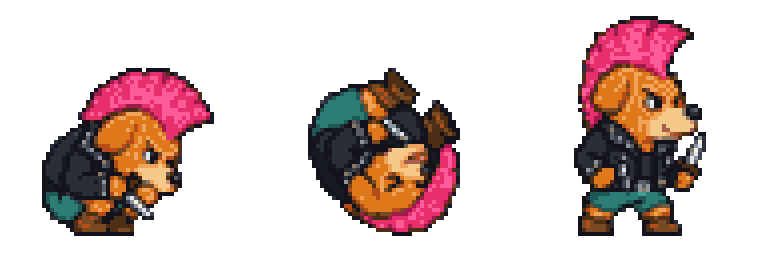
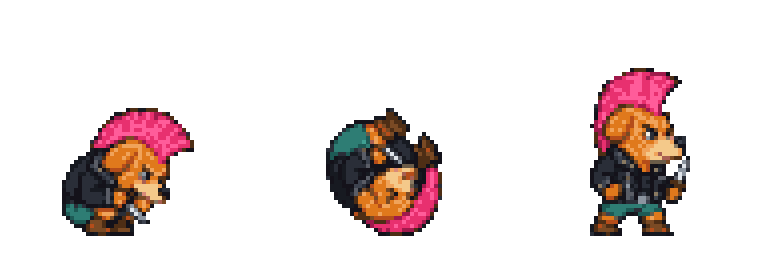
Roll/dodge gets full front/side/back coverage, and fix its real scale bug
Two things found investigating "the roll looks huge" and "does it roll
forward/backward too":

1. build_sheet.py scales every row from ONE reference frame (frame 0 by
   default) and applies that scale to the whole row. That default is
   right for walk/attack, whose frame 0 sits close to standing height —
   it was WRONG for roll, whose frame 0 is a deliberately crouched tuck.
   Scaling the whole row to make the tuck 168px tall inflated the other
   two frames past her real size: the recover frame shipped at 220px,
   31% taller than every other sheet's 168px. Fixed two ways: build_sheet.py
   now accepts a per-row #F suffix (--row raw.png#2) to pick which frame
   is the height reference, and hero_roll_sheet.png is rebuilt with #2
   (recover, not tuck) as Dog Punk's reference frame.

2. Roll was side-view-only by design, reused mirrored for every
   direction including vertical dodges (she visibly tumbled sideways
   while moving up or down). That was a deliberate, documented exception
   to CHARACTER_SHEETS.md's usual three-row standard, and the owner
   overruled it after the reuse turned out to be exactly what hid bug 1:
   nothing was ever checking the reused row against her real size. A
   game of this shape now gets full front/side/back coverage for every
   animation, roll included, same as walk and attack — not a per-
   animation judgement call. rollsheet_prompt.txt gains FRONT ROW and
   BACK ROW {VIEW} blocks (a forward/backward somersault toward/away
[…]

Changed region(s): [[0.75, 0.0625, 0.9375, 0.9375], [0.0312, 0.25, 0.2812, 0.9375], [0.375, 0.25, 0.625, 0.9375]]

diff --git a/games/dog-punk/sw.js b/games/dog-punk/sw.js
@@ -1,6 +1,6 @@
 importScripts("../../shared/sw-core.js");
 
-GCRegisterServiceWorker("dog-punk-v45", [
+GCRegisterServiceWorker("dog-punk-v46", [
   "./",
   "./index.html",
   "./style.css",

diff --git a/.github/art/build_sheet.py b/.github/art/build_sheet.py
@@ -416,10 +416,11 @@ def build_steps(neutral):
     return stepped(True), Image.fromarray(a), stepped(False)
 
 
-def build(rows, out_path, pal, body_heights, cols, mirror_rows=(), step_rows=()):
+def build(rows, out_path, pal, body_heights, cols, mirror_rows=(), step_rows=(), ref_frames=()):
     sheet = Image.new('RGBA', (CELL * cols, CELL * len(rows)), (0, 0, 0, 0))
     for ri, row in enumerate(rows):
         body_h = body_heights[ri] if isinstance(body_heights, list) else body_heights
+        ref_i = ref_frames[ri] if ri < len(ref_frames) else 0
         row = [trim(strip_baseline(trim(f))) for f in row][:cols]
         if not row:
             raise SystemExit('a row came back empty — check the raw image framing')
@@ -435,9 +436,18 @@ def build(rows, out_path, pal, body_heights, cols, mirror_rows=(), step_rows=())
         if ri in mirror_rows and len(row) >= 3:
             row[2] = mirror_legs(row[0])
             print(f'  row {ri}: built the second step by mirroring the first step\'s legs')
-        # ONE scale for the row, from its idle frame: the character must not
-        # change size between idle, walking and attacking.
-        scale = body_h / row[0].size[1]
+        # ONE scale for the row, from its REFERENCE frame (frame 0 unless a
+        # row overrides it with #F — see the --row help): the character must
+        # not change size between idle, walking and attacking. Frame 0 is the
+        # right default for walk/attack, where it sits close to standing
+        # height. It is the WRONG default for a row whose frame 0 is a
+        # deliberately non-standing pose — a dodge-roll's frame 0 is a
+        # crouched tuck, shorter than her real standing height, and scaling
+        # the whole row to make THAT frame 168px tall inflates every other
+        # frame in the row past her actual size. Caught for real on Dog
+        # Punk's roll sheet: the recover frame (meant to end back at normal
+        # height) measured 220px, 31% taller than every other sheet's 168px.
+        scale = body_h / row[ref_i].size[1]
         for ci, f in enumerate(row):
             s = pixelate(f, max(PIXEL, int(round(f.size[1] * scale))))
             if pal is not None:
@@ -453,8 +463,12 @@ def main():
     ap = argparse.ArgumentParser(description=__doc__, formatter_class=argparse.RawDescriptionHelpFormatter)
     ap.add_argument('--style', required=True, help='games/<id>/art-style.json (supplies lockedPalette)')
     ap.add_argument('--out', required=True, help='sheet to write, e.g. games/<id>/hero_sheet.png')
-    ap.add_argument('--row', action='append', required=True, metavar='FILE[:N]',
-                    help='raw image for one output row; :N picks a row within a multi-row raw')
+    ap.add_argument('--row', action='append', required=True, metavar='FILE[:N][@H][#F]',
+                    help='raw image for one output row; :N picks a row within a multi-row raw; '
+                         '#F picks which FRAME (0-based) in the cut row is the height reference '
+                         '(default 0) — override it when frame 0 is not a standing-height pose, '
+                         'e.g. a dodge-roll row whose frame 0 is a crouched tuck: --row '
+                         'roll.png#2 anchors the scale to frame 2 (recover) instead')
     ap.add_argument('--body-height', type=int, default=168,
                     help='height of the idle frame inside its cell (default 168; use less for smaller creatures)')
     ap.add_argument('--cols', type=int, default=3, help='frames per row (default 3: idle, walk, attack)')
@@ -476,17 +490,19 @@ def main():
         print(f'note: {args.style} has no lockedPalette — shipping the generated colours as-is. '
               'Add one so this game\'s art cannot drift between sheets.', file=sys.stderr)
 
-    rows, heights = [], []
+    rows, heights, ref_frames = [], [], []
     for spec in args.row:
+        spec, _, ref = spec.partition('#')
         spec, _, h = spec.partition('@')
         path, _, idx = spec.partition(':')
         img = key_background(path, tol=args.tol)
         rows.append(frames_by_blob(img, want=args.cols) if args.blobs
                     else frames_by_gutter(img, int(idx or 0)))
         heights.append(int(h) if h else args.body_height)
+        ref_frames.append(int(ref) if ref else 0)
     mirror_rows = {int(x) for x in args.mirror_step.split(',') if x.strip()}
     step_rows = {int(x) for x in args.build_steps.split(',') if x.strip()}
-    build(rows, args.out, pal, heights, args.cols, mirror_rows, step_rows)
+    build(rows, args.out, pal, heights, args.cols, mirror_rows, step_rows, ref_frames)
 
 
 if __name__ == '__main__':

diff --git a/.github/art/profiles.py b/.github/art/profiles.py
@@ -95,11 +95,13 @@ PROFILES = {
         "size": "1536x1024",
         "quality": "medium",
         "background": "opaque",
-        # SIDE VIEW ONLY, ever — see CHARACTER_SHEETS.md's "Roll / dodge"
-        # section. rollsheet_prompt.txt has no FRONT/BACK ROW block on
-        # purpose, so asking generate_row.py for --kind roll --view front
-        # fails loudly (fill() can't find the block) instead of quietly
-        # producing a row nothing will ever play.
+        # Full front/side/back coverage, same as walk and attack — see
+        # CHARACTER_SHEETS.md's "Roll / dodge" section. Used to be side-view-
+        # only with the side row reused (mirrored, and replayed for vertical
+        # dodges) for every direction; overruled after that reuse also
+        # papered over a real scale bug (the recover frame shipped 31%
+        # taller than every other sheet). rollsheet_prompt.txt now has all
+        # three {VIEW} blocks like the other two prompts.
         #
         # BLOBS, same reason as attack: a tucked, tumbling body reaches
         # further into the gap beside it than a standing one, so a gutter

diff --git a/.github/art/CHARACTER_SHEETS.md b/.github/art/CHARACTER_SHEETS.md
@@ -157,30 +157,46 @@ columns (a "neutral" that is really a third stride, or a standing frame drawn
 from a different angle than its own row) breaks the cycle in that direction
 only — the hardest kind of bug to spot, because the other directions look fine.
 
-**Roll / dodge — OPTIONAL, 3 frames, ONE ROW ONLY: `[tuck, mid-roll, recover]`**
+**Roll / dodge — OPTIONAL, 3 frames per direction: `[tuck, mid-roll, recover]`**
 
 | col | pose |
 |-----|------|
 | 0 | tuck — crouching in, ball up, about to go over |
-| 1 | **mid-roll** — curled sideways mid-tumble, the silhouette rolled onto its side/back, legs and arms tucked in |
+| 1 | **mid-roll** — curled up mid-tumble, silhouette rolled up, legs and arms tucked in |
 | 2 | recover — popping back up out of the tuck, momentum settling |
 
-A dodge-roll is drawn **side view ONLY, never front or back**, and that is a
-rule rather than a shortcut taken under time pressure: the whole point of a
-roll as a *dodge* is that the player can trigger it while moving in any of
-the four directions (or while standing still and just picking a direction to
-bail toward), and a tumble read from the front or the back is either
-foreshortened to nothing (exactly the walk-cycle problem above, worse
-because the whole body is turning, not just a leg) or it has to be a second
-and third fully-drawn row that a generator will not keep in sync with the
-side row's silhouette. One row, mirrored for the opposite horizontal
-direction exactly like the side walk/attack rows, and REUSED as the drawn
-animation for a vertical dodge too — the character visibly does a sideways
-tumble while actually translating up or down the screen. That mismatch is
-deliberate, not a bug to fix later: a barrel-roll is already a slapstick
-beat, not a realistic evasion, and a single row is the difference between
-this being cheap enough to add to an existing cast and it needing four new
-fully-drawn rows per character.
+**Three full rows, down/side/up, same as walk and attack — not one row
+reused.** This used to be side-view-only: one row, mirrored for the
+opposite horizontal direction, REUSED as the drawn animation for a vertical
+dodge too (she visibly tumbles sideways while actually translating up or
+down the screen). That was a deliberate design call, reasoned through and
+documented right here — and it was overruled after two things happened in
+the same sitting: the reuse hid a genuine scale bug (see "A row's scale
+comes from ONE frame" below — the side row's recover frame shipped 31%
+taller than every other sheet, because nothing was checking the reused
+row against her real size), and the owner decided a game of this shape
+gets full directional coverage for every animation as standard, not a
+per-animation judgement call about whether the extra rows are "worth it."
+The side row is a LATERAL barrel-roll (tumbling along the ground, seen
+from the side) for a left/right dodge; the front and back rows are a
+FORWARD/BACKWARD tumble — a somersault toward or away from the camera —
+for a down/up dodge, matching the front-faces-viewer / back-faces-away
+convention every other row here already uses. `rollsheet_prompt.txt`
+carries all three `{VIEW}` blocks, same shape as the walk and attack
+prompts.
+
+**A row's scale comes from ONE frame — pick a frame that is actually
+standing height.** `build_sheet.py` scales every frame in a row by one
+factor taken from frame 0 by default, so the character can't change size
+mid-animation. That default is right for walk and attack, where frame 0
+sits close to standing height — it is WRONG for roll, where frame 0 (tuck)
+is a deliberately crouched, shorter pose: scaling the whole row to make
+THAT frame 168px tall inflates the other two frames past her real size,
+which is exactly how Beverly's roll shipped visibly bigger than the rest
+of her. Anchor a roll row to its RECOVER frame instead: `--row
+raw.png#2` (see build_sheet.py's `--row FILE[:N][@H][#F]` help) — `#2`
+picks frame index 2, the one pose in the row that is actually meant to
+match her standing height.
 
 **Invulnerability spans the whole roll, not one frame.** Unlike the attack
 sheet's single strike-frame hit, there is no one column that "lands" — the
